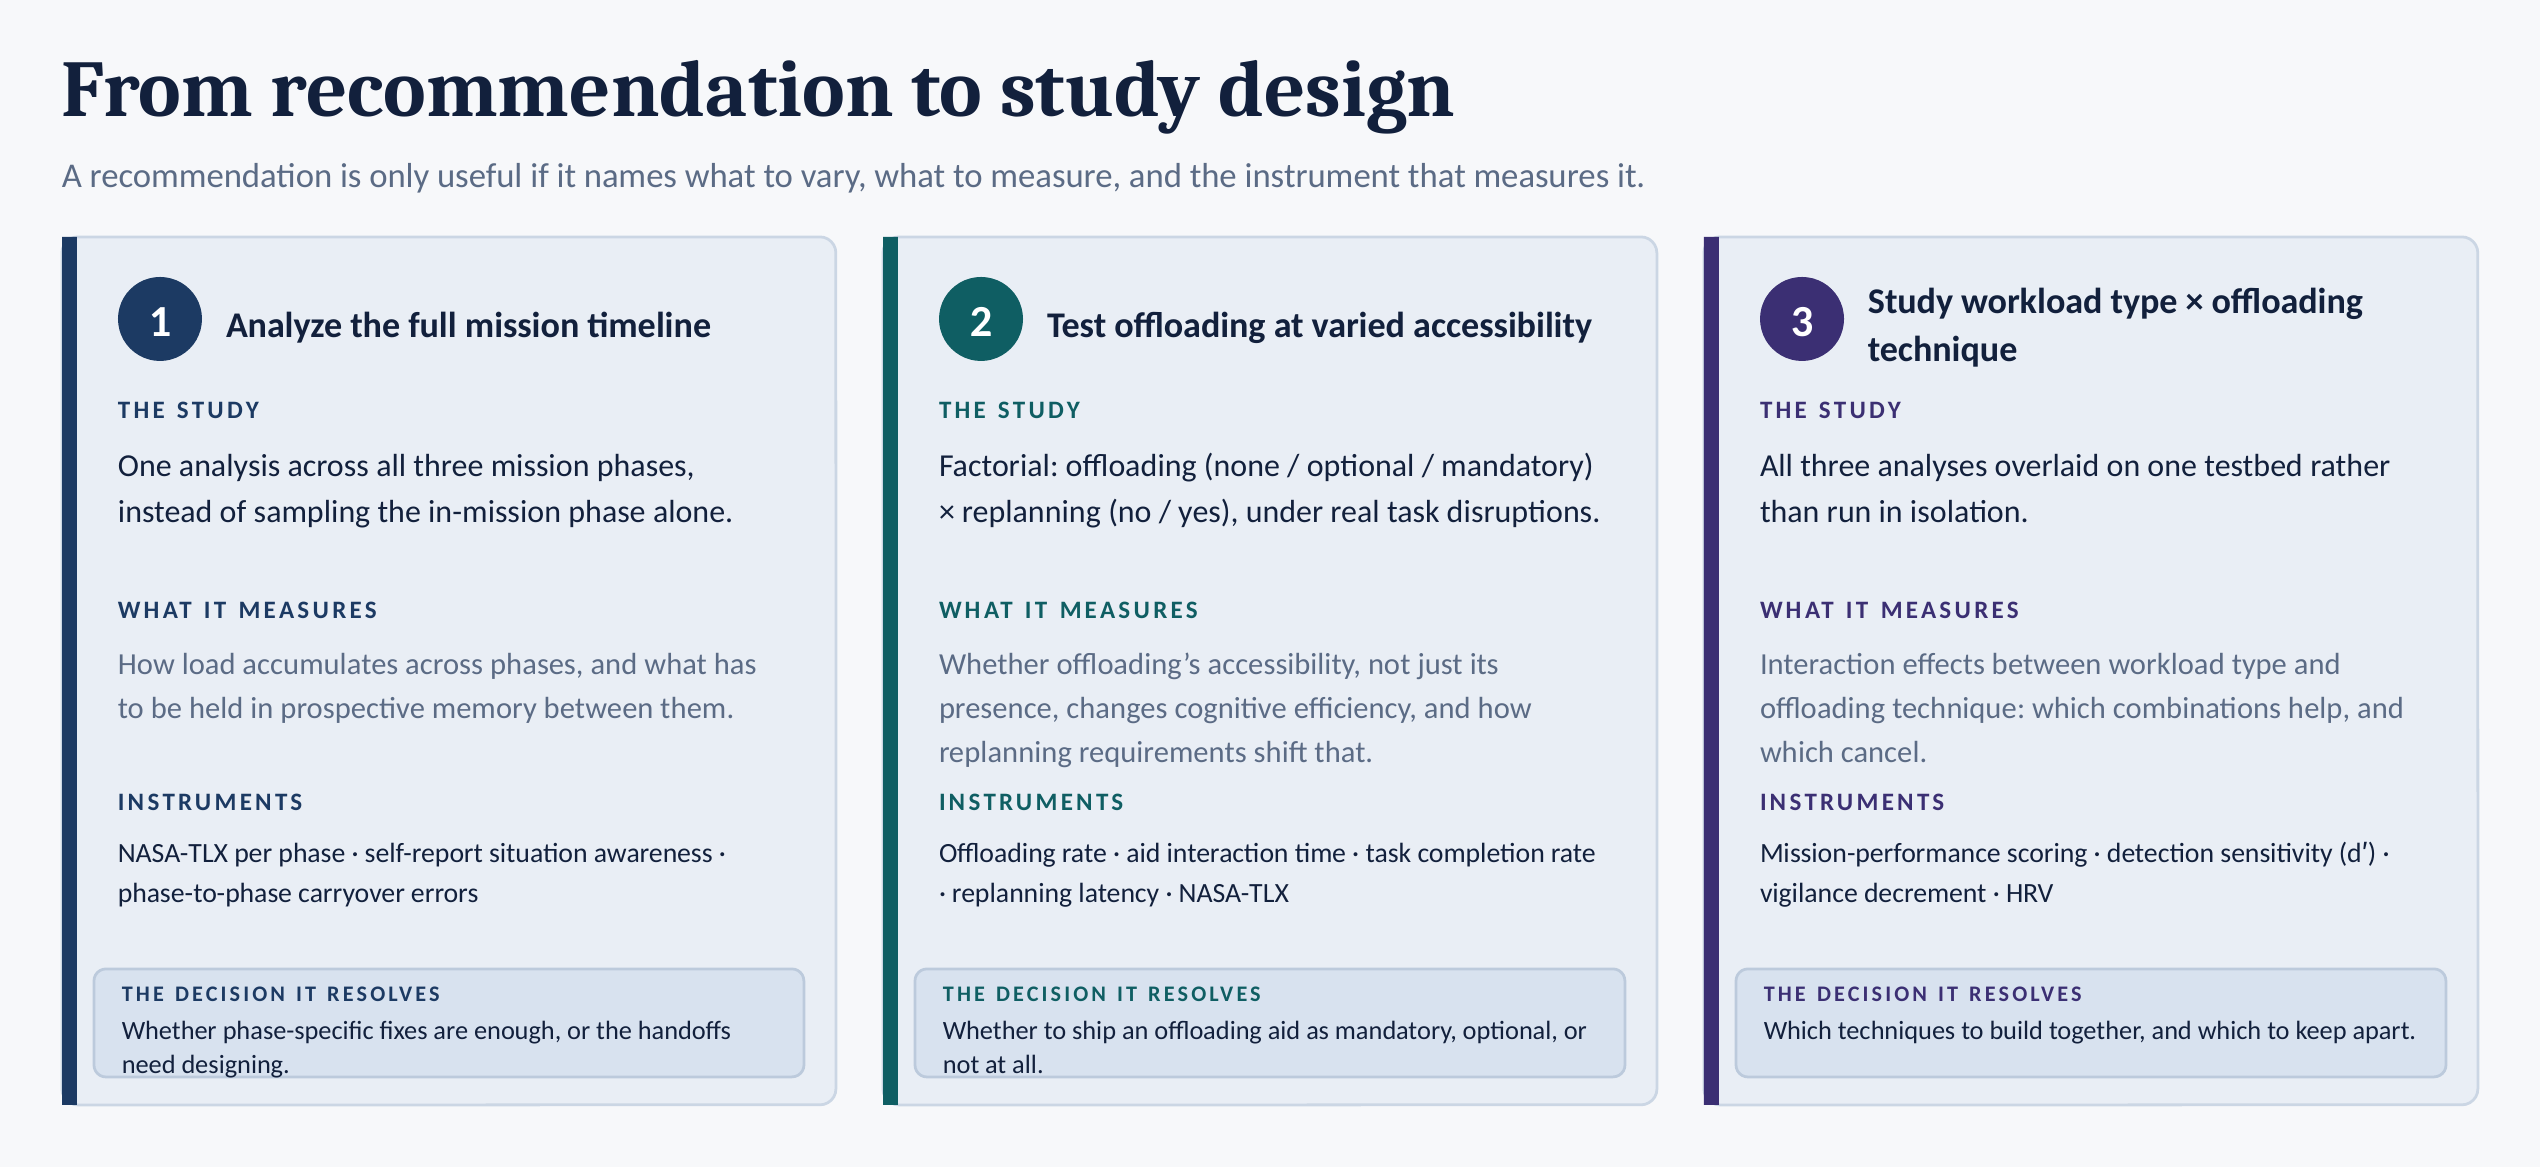
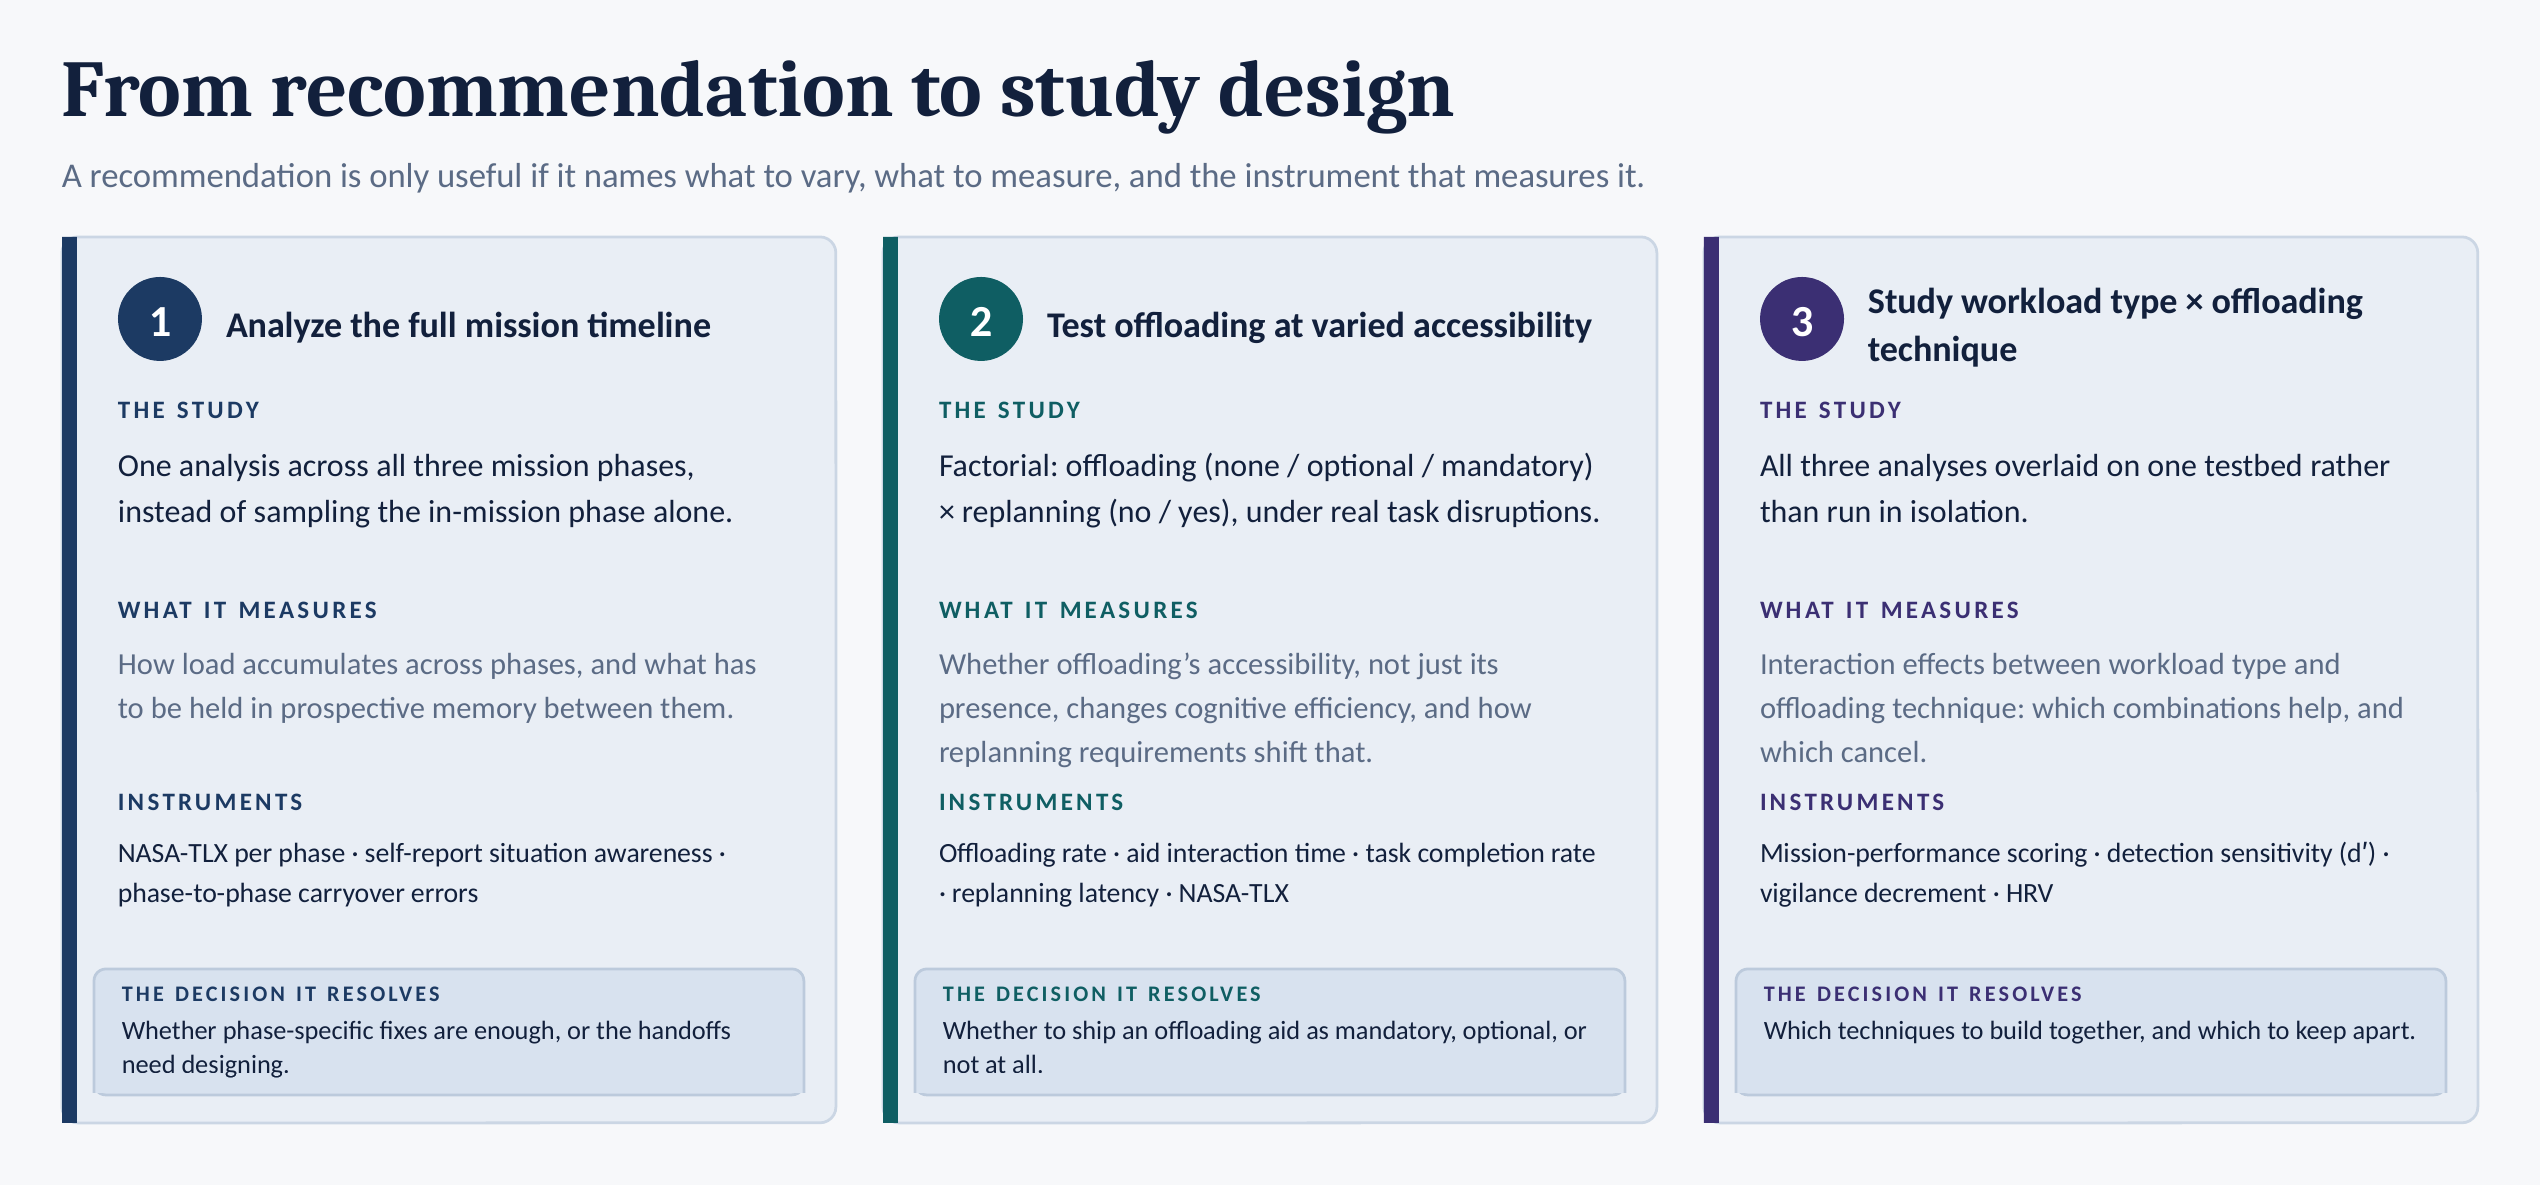
Lockheed slide: stop the decision text clipping in the study-design cards
Claude-Session: https://claude.ai/code/session_01Be8Di5gqHytWBQBqRkoQzy

diff --git a/_pages/case-study-lockheed.md b/_pages/case-study-lockheed.md
@@ -118,7 +118,7 @@ Three recommendations that turn the framework into testable design questions, an
 </figure>
 
 <figure class="cs-figure">
-  <img src="/images/case-studies/lockheed-study-designs.png" alt="Slide titled From recommendation to study design. Each of the three recommendations is paired with a study, what it measures, the instruments that measure it, and the decision it resolves." loading="lazy" width="2540" height="1167">
+  <img src="/images/case-studies/lockheed-study-designs.png" alt="Slide titled From recommendation to study design. Each of the three recommendations is paired with a study, what it measures, the instruments that measure it, and the decision it resolves." loading="lazy" width="2540" height="1185">
   <figcaption>From recommendation to study design. Each study names what to vary, what to measure, and the instrument that measures it. <a class="cs-fullsize" href="/images/case-studies/lockheed-study-designs.png" target="_blank" rel="noopener">Open full size<span class="sr-only"> image (opens in new tab)</span></a></figcaption>
 </figure>
 
